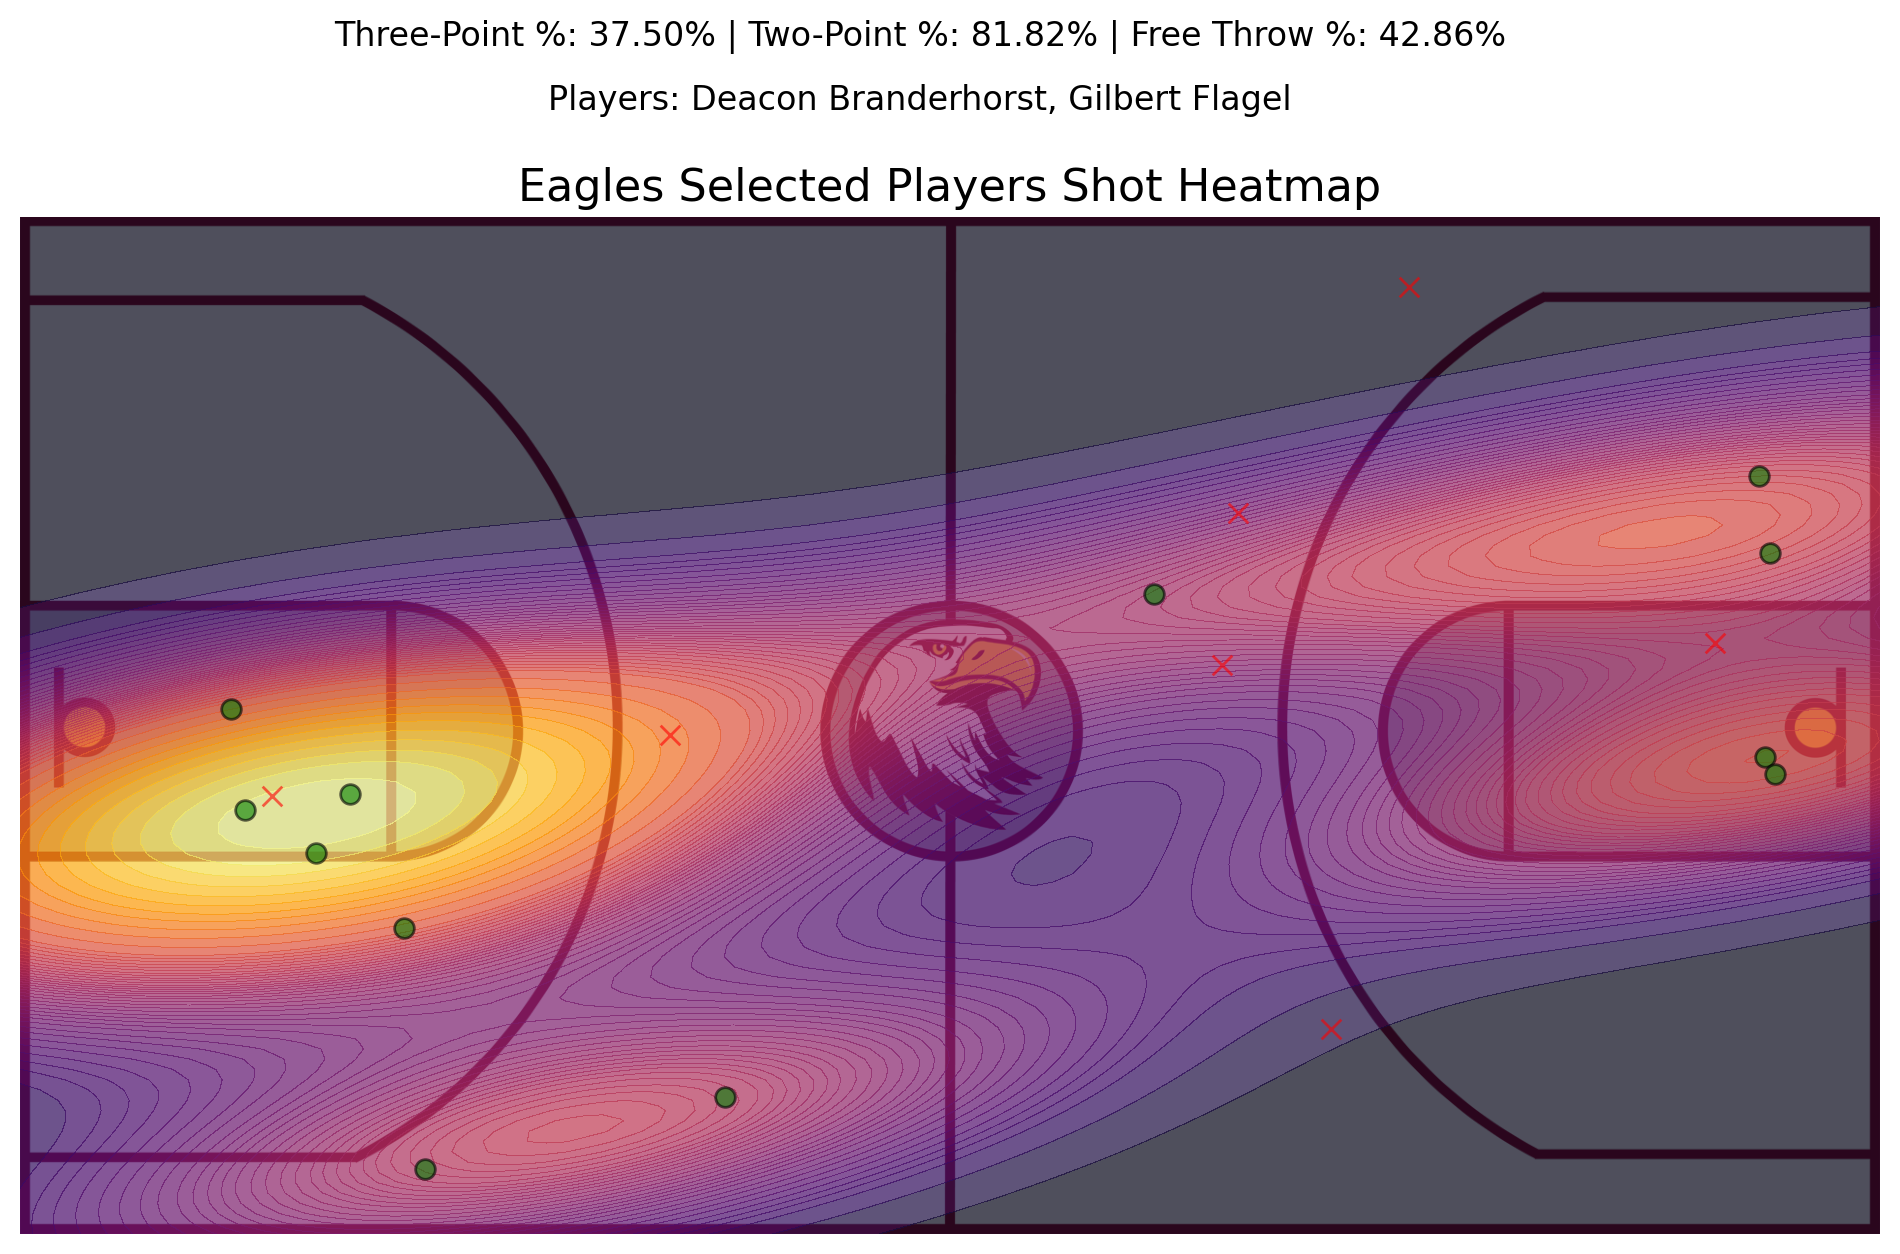
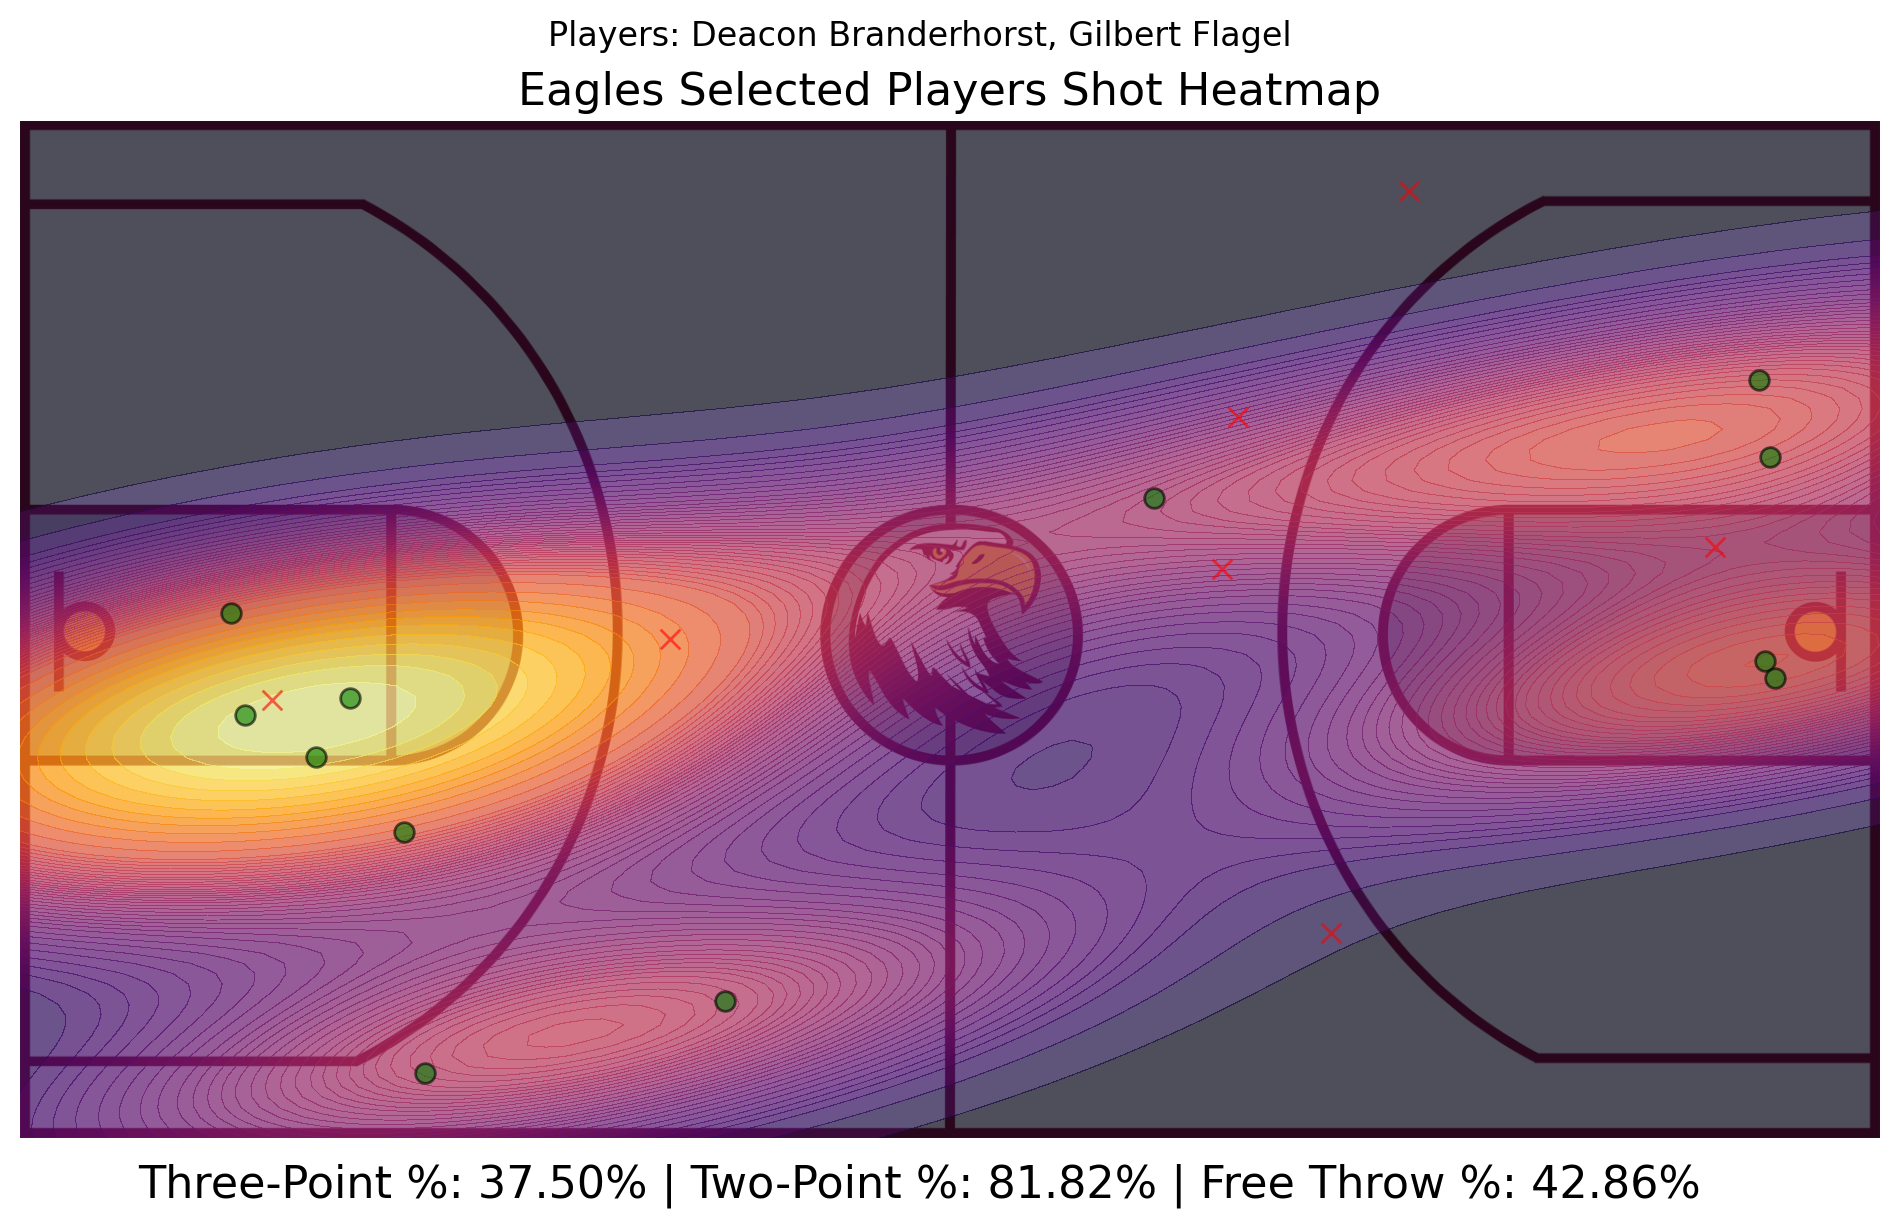
moved around text positions

diff --git a/heatmap.py b/heatmap.py
@@ -128,15 +128,16 @@ def create_heatmap(shot_positions, shot_made, team_name, team_num, percentages, 
     # Add title to the heatmap
     ax.set_title(f'{team_name} Shot Heatmap', fontsize=16, color='black')
 
-    # Add text for percentages below the title
+    # Add text for percentages below the graph
     three_percentage, two_percentage, free_percentage = percentages
-    fig.text(0.5, 0.92, f'Three-Point %: {three_percentage:.2f}% | Two-Point %: {two_percentage:.2f}% | Free Throw %: {free_percentage:.2f}%', color='black', fontsize=12, ha='center')
+    fig.text(0.5, 0.14, f'Three-Point %: {three_percentage:.2f}% | Two-Point %: {two_percentage:.2f}% | Free Throw %: {free_percentage:.2f}%', color='black', fontsize=16, ha='center')
 
     # Add player names below the percentages if provided
     if player_names:
-        fig.text(0.5, 0.88, f'Players: {", ".join(player_names)}', color='black', fontsize=12, ha='center')
+        fig.text(0.5, 0.86, f'Players: {", ".join(player_names)}', color='black', fontsize=12, ha='center')
 
     # Save plot to a file
+    #plt.savefig(f'heatmap_{team_num}.png', bbox_inches='tight', dpi=200, transparent=True)
     plt.savefig(f'heatmap_{team_num}.png', bbox_inches='tight', dpi=200)
     plt.close()
 
